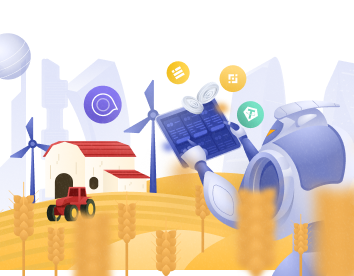
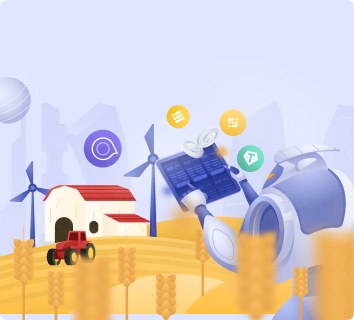
fix: FarmBanner background (#427)

diff --git a/src/views/farms/components/FarmBanner/index.tsx b/src/views/farms/components/FarmBanner/index.tsx
@@ -1,15 +1,26 @@
-import { FARM_DESKTOP_MEDIA, FARM_LAPTOP_MEDIA, FARM_MOBILE_MEDIA } from 'constants/layout/farm.layout'
 import { useTranslation } from 'react-i18next'
 import styled from 'styled-components'
+import { breakpoints, mq } from 'ui'
 
 const Wrapper = styled.div`
-  background: #dfe4ff;
+  background-color: #dfe4ff;
+  background-image: url(/images/farms/banners/farm-banner.png);
+  background-position: right;
+  background-size: cover;
+  background-repeat: no-repeat;
   border-radius: 6px;
   height: 360px;
   position: relative;
   overflow: hidden;
-  @media screen and (max-width: ${FARM_MOBILE_MEDIA}) {
+
+  @media ${mq.down(breakpoints.lg)} {
+    height: 250px;
+  }
+
+  @media ${mq.down(breakpoints.sm)} {
     height: 320px;
+    background-position: top;
+    background-image: url(/images/farms/banners/farm-banner-small.png);
   }
 `
 
@@ -37,7 +48,7 @@ const Labels = styled.div`
     letter-spacing: 0.3px;
     color: #8990a5;
   }
-  @media screen and (max-width: ${FARM_MOBILE_MEDIA}) {
+  @media ${mq.down(breakpoints.sm)} {
     width: 100%;
     padding: 0;
     justify-content: center;
@@ -55,32 +66,6 @@ const Labels = styled.div`
   }
 `
 
-const Backgrounds = styled.div`
-  background-size: contain;
-  background-image: url(/images/farms/banners/farm-banner.png);
-  height: 360px;
-  width: 100%;
-  max-width: 830px;
-  background-repeat: no-repeat;
-  background-position: bottom right;
-  position: absolute;
-  right: 0;
-  top: 0;
-
-  @media screen and (max-width: ${FARM_DESKTOP_MEDIA}) {
-    background-position: 159px;
-  }
-  @media screen and (max-width: ${FARM_LAPTOP_MEDIA}) {
-    background-size: cover;
-  }
-
-  @media screen and (max-width: 375px) {
-    background-image: url(/images/farms/banners/farm-banner-small.png);
-    background-size: 100% auto;
-    background-position: center 55px;
-  }
-`
-
 const FarmBanner = () => {
   const { t } = useTranslation()
   return (
@@ -89,7 +74,6 @@ const FarmBanner = () => {
         <h1>{t('Farms')}</h1>
         <h3>{t('Stake LP tokens to earn')}</h3>
       </Labels>
-      <Backgrounds />
     </Wrapper>
   )
 }

diff --git a/src/views/farms/FarmContainer.tsx b/src/views/farms/FarmContainer.tsx
@@ -23,7 +23,7 @@ const BodyWrapper = styled.div`
   }
 
   @media ${mq.down(breakpoints.sm)} {
-    padding: 16px 10px 210px 10px;
+    padding: 16px 10px 210px 10px;
   }
 `
 
